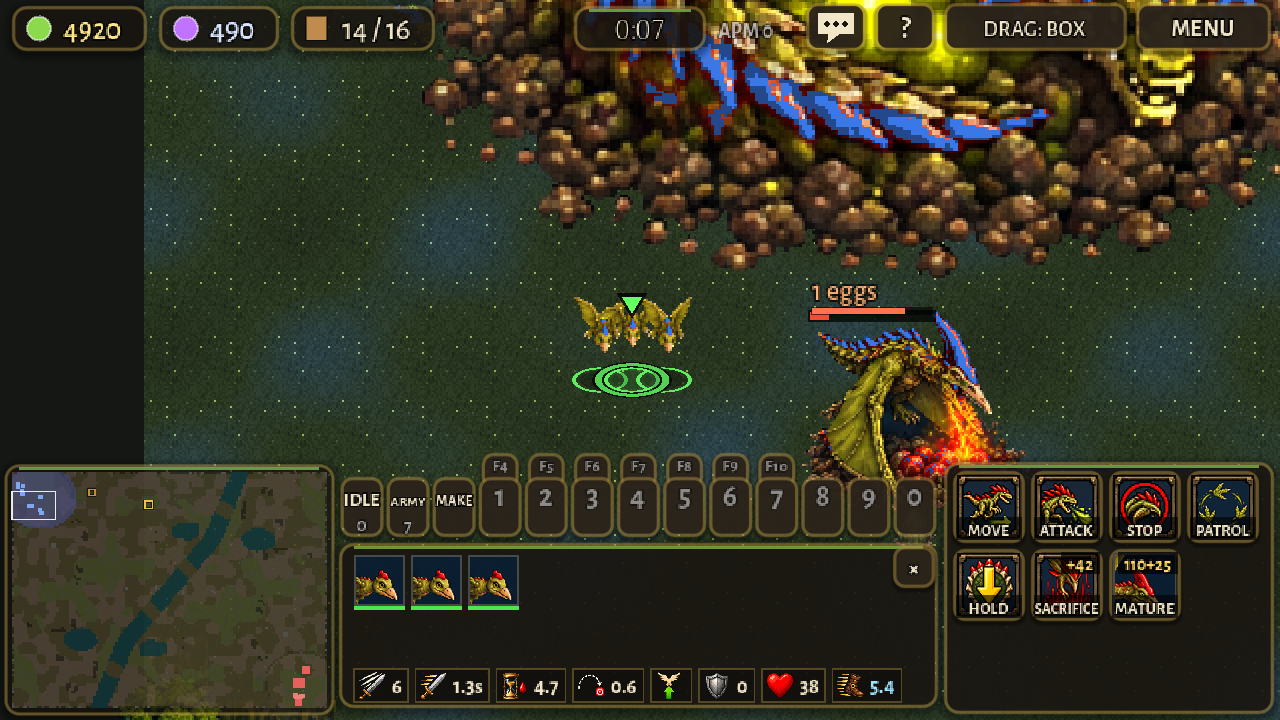
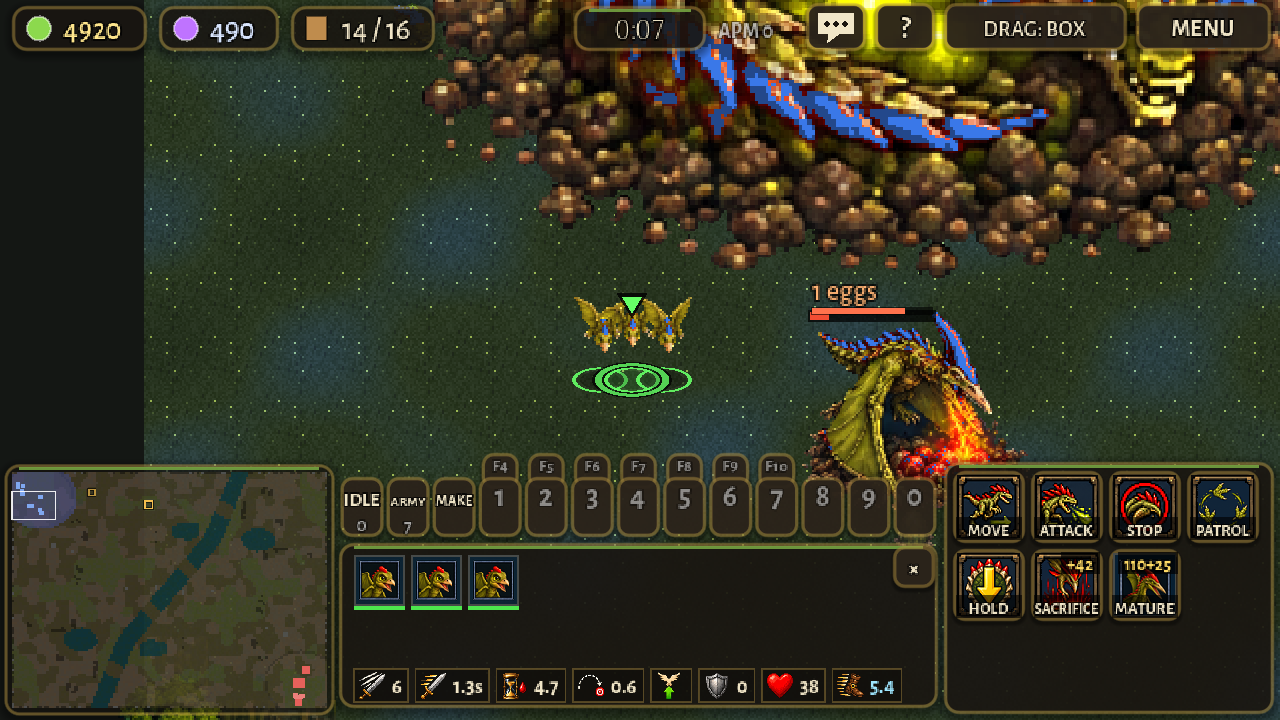
DONE: storm-line: 0.21.0, the Storm line (Hatchlings, Storm Challenger) in the game; the Skywing retired
docs/storm_line.md: numbers and why, the art fixes (motion marks erased, NE swoop rebuilt,
N swoop flipped), the computer, two AI games against the Clockwork, open questions.
Pictures: docs/shots/storm_line/ (cards refreshed with the owner's portraits).

Claude-Session: https://claude.ai/code/session_01NtmEZhP1uA8k4DLQ7BYfMz

Changed region(s): [[0.2812, 0.7639, 0.4062, 0.8556], [0.875, 0.7944, 0.9375, 0.8556]]

diff --git a/docs/storm_line.md b/docs/storm_line.md
@@ -109,7 +109,24 @@ Musketeer, a Challenger swooping on a Raptor, an old Skywing egg, the computer),
 (Hatchlings in place of Skywings). tools/test_stun_mark.gd pulls a Storm Challenger through the air with the Toad's
 TONGUE (was a Skywing).
 
-RESULTS_PLACEHOLDER
+Results (0.21.0): test_brood_new 0 failures (section 23: a Hatchling egg [80, 10] gives 2, with BIGGER CLUTCH [120, 15]
+gives 3; maturing [110, 25]; UPDRAFT 132 -> 152 and 120 -> 138; 4 Hatchlings kill a Swift and never target the Musketeer
+beside it; a Challenger swoops on a Raptor; the computer lays Hatchlings against 3 enemy balloons and matures them with
+no flyers about), test_unit_stats, test_files, test_i18n, test_replay, test_stun_mark: all pass.
+
+## Two computer games against the Clockwork (tools/sim_brood_new.gd, Hollowfen, seed 4242, Hard)
+
+- 12 minutes (secs:720, Balanced): the Brood reached the Mother's stage 2 but never raised the Storm Sire (he costs 50
+  spoils; it had 12 to 39 spoils all game: they go to its first research and its stage 3 savings), so no Hatchlings;
+  the Hard Clockwork built no flyers either (Clock Soldiers, Springers, Netters, Pendulums, a Ballista). No script
+  errors. The Brood was alive at 12:00 (Clockwork 129 supply, Brood 41).
+- 17 minutes (secs:1080, Economy): stage 2 at about 6:00; spoils up to 71, spent on Tyrant Challengers (MATURE),
+  BIGGER CLUTCH and PACK HUNT; then its supply sat at the 88 cap, so again no Storm Sire. The Brood lost at 17:14.
+- So **in these games the Storm line never came up**: the computer's spoils (an old open point, docs/brood_research.md
+  question 8) and its supply cap starve its third Sire, and the Hard Clockwork does not build Swifts. The computer's
+  Storm line logic is tested directly (section 23). A follow-up could have the computer raise the Storm Sire first when
+  the enemy has flyers (and keep 4 supply for him).
+
 
 ## Open questions for the owner
 
@@ -117,5 +134,6 @@ RESULTS_PLACEHOLDER
    swoop / 120. Too weak or too strong after a play?
 2. Should the Storm Challenger get a bonus against flyers (it "hunts flyers")? Not given: damage modifiers kept few.
 3. The N fly rows (beak at the bottom) against the flipped N swoop: redraw the N fly rows facing away?
-4. Should Hatchlings stay out of the computer's attack waves (they can only guard against flyers)? Today they go with
+4. The computer rarely reaches its Storm Sire (spoils, supply cap): give him priority when the enemy flies?
+5. Should Hatchlings stay out of the computer's attack waves (they can only guard against flyers)? Today they go with
    the army, which also protects it from enemy flyers.
